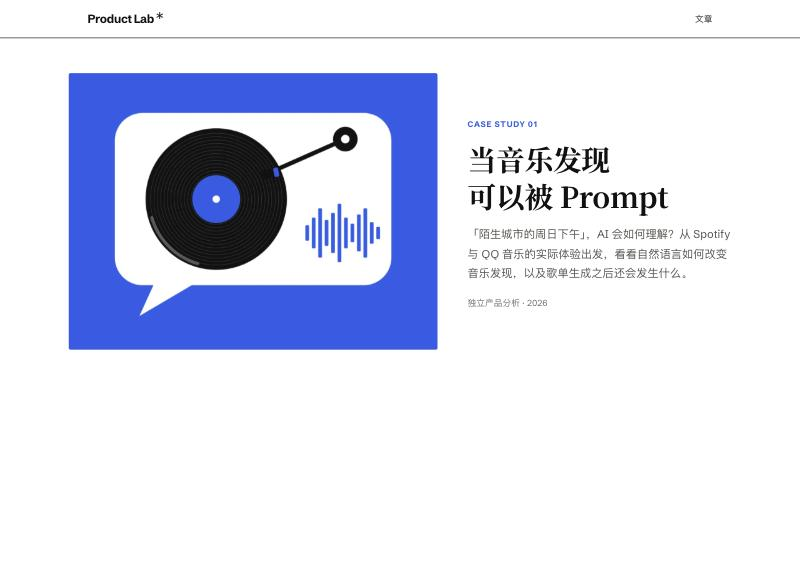
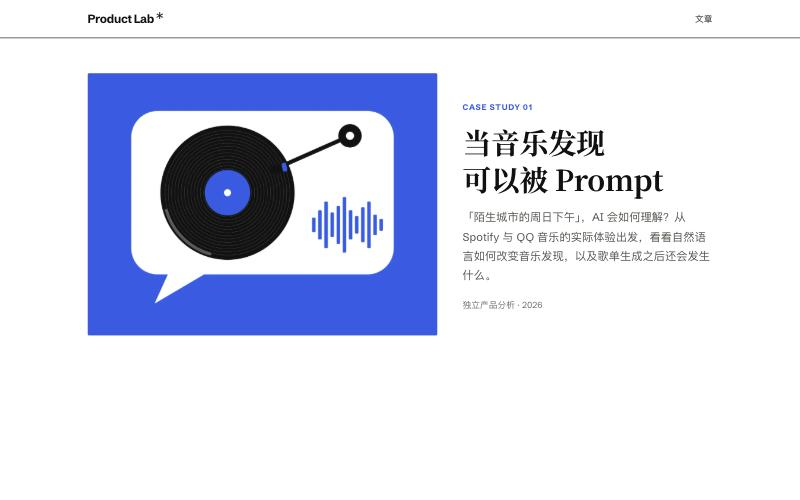
Home container 1000px aligned with header; cover image under the byline on the article page

Changed region(s): [[0.0625, 0.12, 0.6875, 0.69], [0.5625, 0.21, 0.9062, 0.57], [0.0, 0.03, 1.0, 0.09]]

diff --git a/src/styles/site.css b/src/styles/site.css
@@ -6,7 +6,7 @@ a.feat{text-decoration:none}
 .img img{width:100%;height:100%;object-fit:cover;display:block}
 .r43{aspect-ratio:4/3}
 .home{padding-block:56px 96px}
-.feat{display:grid;grid-template-columns:minmax(0,590px) minmax(0,1fr);gap:48px;align-items:center;max-width:1060px;margin-inline:auto}
+.feat{display:grid;grid-template-columns:minmax(0,560px) minmax(0,1fr);gap:40px;align-items:center;max-width:var(--full);margin-inline:auto}
 .feat h2{font-family:var(--quote);font-weight:700;font-size:46px;line-height:58px;letter-spacing:-.01em;margin-top:14px}
 .feat .dek{font-size:18px;line-height:31px;color:var(--ink-2);margin-top:18px}
 .feat .by{font-size:14px;line-height:20px;color:var(--muted);margin-top:22px}

diff --git a/src/styles/prose.css b/src/styles/prose.css
@@ -56,6 +56,8 @@
 /* ================= Hero ================= */
 .hero-h{padding-top:64px}
 .hero-h h1{font-size:42px;line-height:52px;font-weight:700;letter-spacing:-.025em;margin-top:20px;text-wrap:balance}
+.cover-fig{margin-top:40px;margin-bottom:0}
+.cover-fig img{display:block;width:100%;height:auto;aspect-ratio:4/3;border-radius:3px;background:var(--wash)}
 .byline{margin-top:28px;padding-top:16px;border-top:1px solid var(--line);font-size:13px;line-height:20px;color:var(--muted)}
 
 .map{margin-top:56px;border-top:1px solid var(--ink);padding-top:14px}

diff --git a/docs/ACCEPTANCE.md b/docs/ACCEPTANCE.md
@@ -50,7 +50,7 @@
 ## 性能与可访问性（Lighthouse，手机，模拟节流，本地预览）
 | 页面 | 性能 | 可访问性 | 最佳实践 | SEO |
 |---|---|---|---|---|
-| 文章页 | 100 | **100** | 100 | 100 |
+| 文章页 | 99 | **100** | 100 | 100 |
 | 首页 | 100 | **100** | 100 | 100 |
 
 四项都达到 ≥90 / ≥95 / ≥95 / ≥95：**通过**。没有失败的审计项。浅色模式「进入候选 MVP」副标题已改为 `opacity:.9`（作者批准）。
@@ -79,11 +79,12 @@
 - 分享图：`public/og.png`，首页与文章页 `og:image` 都指向它；不再用 `getImage` 裁封面。
 - 首页头条按作者截图：左封面（4:3）、右侧「CASE STUDY 01」、衬线粗体标题（「当音乐发现 / 可以被 Prompt」，用 frontmatter 新增的可选 `titleLines`）、参考页那句导语、署名「独立产品分析 · 2026」；去掉副标题和阅读时间。
 - 标题粗体：新增 `quote-serif-bold.woff2`（Noto Serif SC 700，只含标题 12 个字符，约 4 KB），由同一个子集脚本生成。
-- 与截图的差异：截图里页眉左缘在 x=90，内容在 x=110；本站页眉与文章页共用参考页的 1000px 容器（左缘 140），首页内容 1060px（左缘 110），所以页眉与内容左缘在桌面端差 30px。未改页眉。
-- 截图：`docs/screenshots/home-1280.jpg`、`home-390.jpg`。
+- 首页内容容器改为 `var(--full)`（1000px，与页眉一致，页眉未动）：1280 宽下 Logo 与封面左缘同为 x=140，「文章」与右栏右缘同为 x=1140。封面列 560px、间距 40px。
+- 文章页：作者要求在署名「独立产品分析 · 2026」下方、第一张图解之前放封面（`ArticleCover`，700px 阅读宽度，4:3，eager）。这是参考页之外的新增。1280 宽下，文章其余 1,034 个元素除外层 `div.pad`（高度随封面增加）外，左边缘、宽、高与加封面前完全一致；390 宽无横向溢出。
+- 截图：`docs/screenshots/` 下 `home-1280/390`、`article-top-1280/390`。
 
 ## 仍需作者决定或留意的项
 1. 母稿逐字核对、「图形与正文不重复」、「待验证」语义：没有人工逐项审查。
 2. `coverAlt` 新文案确认。
-3. 首页页眉与内容左缘对齐方式（见上）。
+3. 文章页封面的宽度（现为 700px 阅读宽度）与下方图解的节奏是否合适。
 4. 部署、`public/CNAME`、截图放大在文章内的验证：同前，未做。
